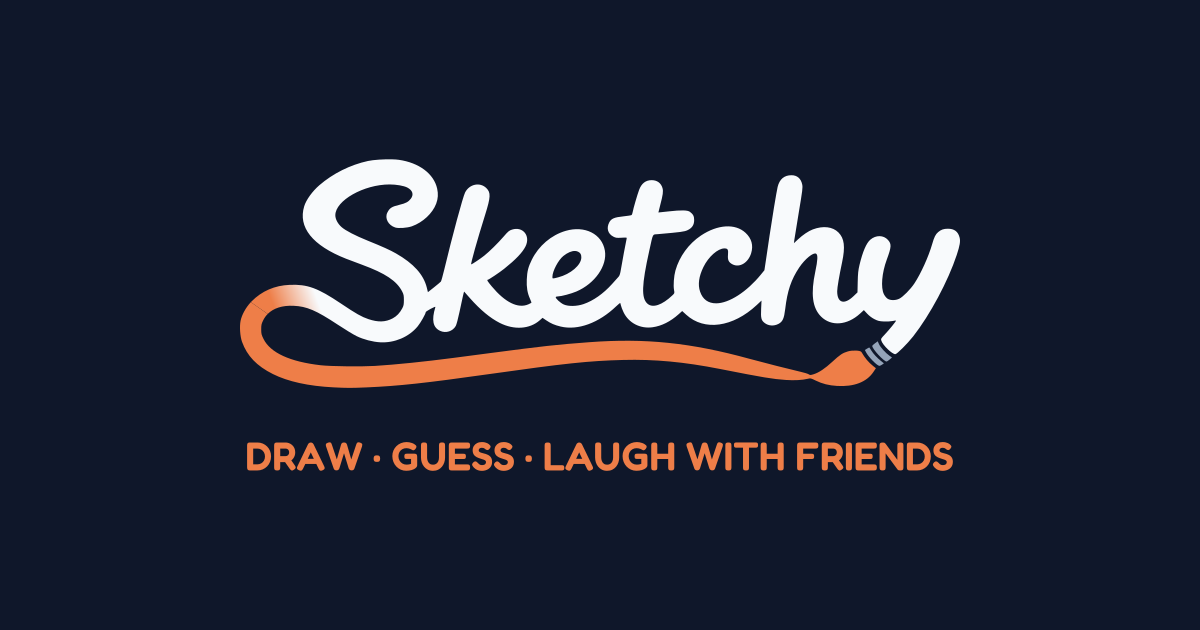
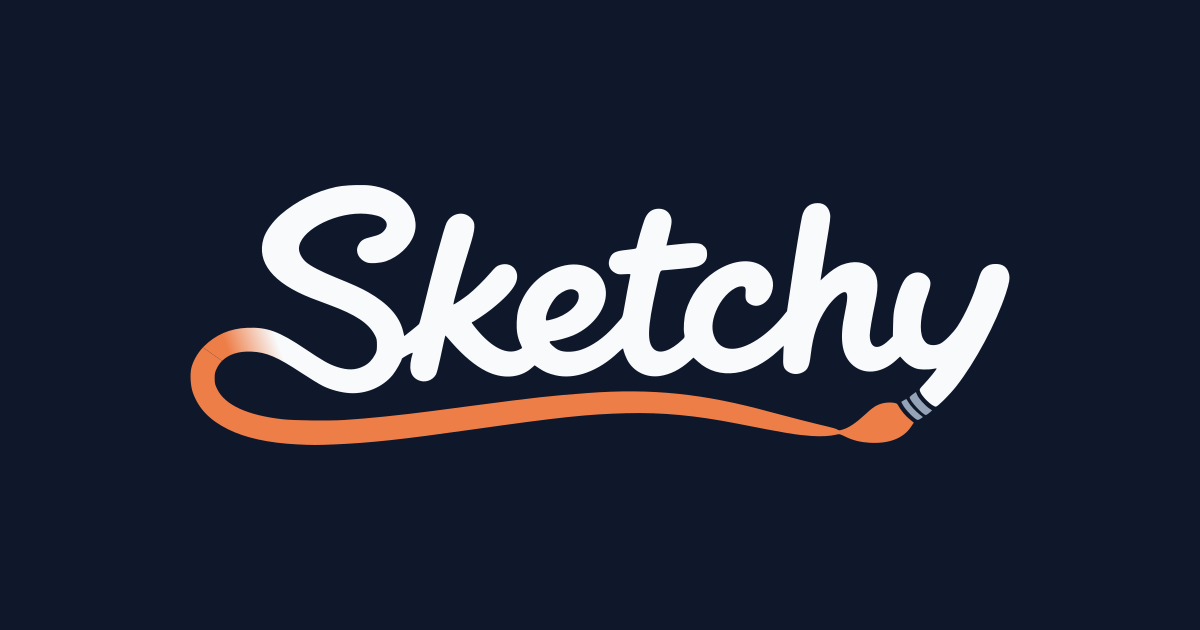
Simplify the social card and align every description
The card is the lockup alone now: the DRAW · GUESS · LAUGH WITH FRIENDS
tagline is gone and the wordmark grows from 720 to 820px, centred on the dark
ground.

Removing that text removes the only thing that needed a font at build time, so
opentype.js goes with it — along with the createRequire shim that resolved it
from outside frontend/, and the hand-written path serializer that existed only
to work around opentype.js emitting literal NaN for that one string. The
frontend's dependency list is back to what it was before this branch touched
it.

All three descriptions now read "Draw, guess and laugh with friends!" — the
search snippet, the link embed and the PWA install prompt. Note that this drops
the keyword-carrying variant: nothing on the page now targets "Pictionary
online" or similar. <title> is still the plain "Sketchy", and title is the
ranking signal that description is not, so that is where any search work should
go rather than back into the description.

Verified: lint clean, 210/210 frontend tests, build green, and the built
dist/index.html carries the expected tags.

Changed region(s): [[0.1542, 0.2413, 0.8633, 0.754]]

diff --git a/frontend/index.html b/frontend/index.html
@@ -12,11 +12,11 @@
          first paint, so mobile chrome still matches the theme the player chose
          rather than going orange. -->
     <meta name="theme-color" content="#ee7e48" />
-    <meta name="description" content="Draw, guess and play with friends." />
+    <meta name="description" content="Draw, guess and laugh with friends!" />
     <meta property="og:type" content="website" />
     <meta property="og:site_name" content="Sketchy" />
     <meta property="og:title" content="Sketchy" />
-    <meta property="og:description" content="Draw, guess and play with friends." />
+    <meta property="og:description" content="Draw, guess and laugh with friends!" />
     <!-- Root-relative on purpose. Slack, Discord and iMessage resolve it against
          the page they just fetched, and this app has no canonical origin to
          hard-code. og:url is omitted for the same reason. -->
